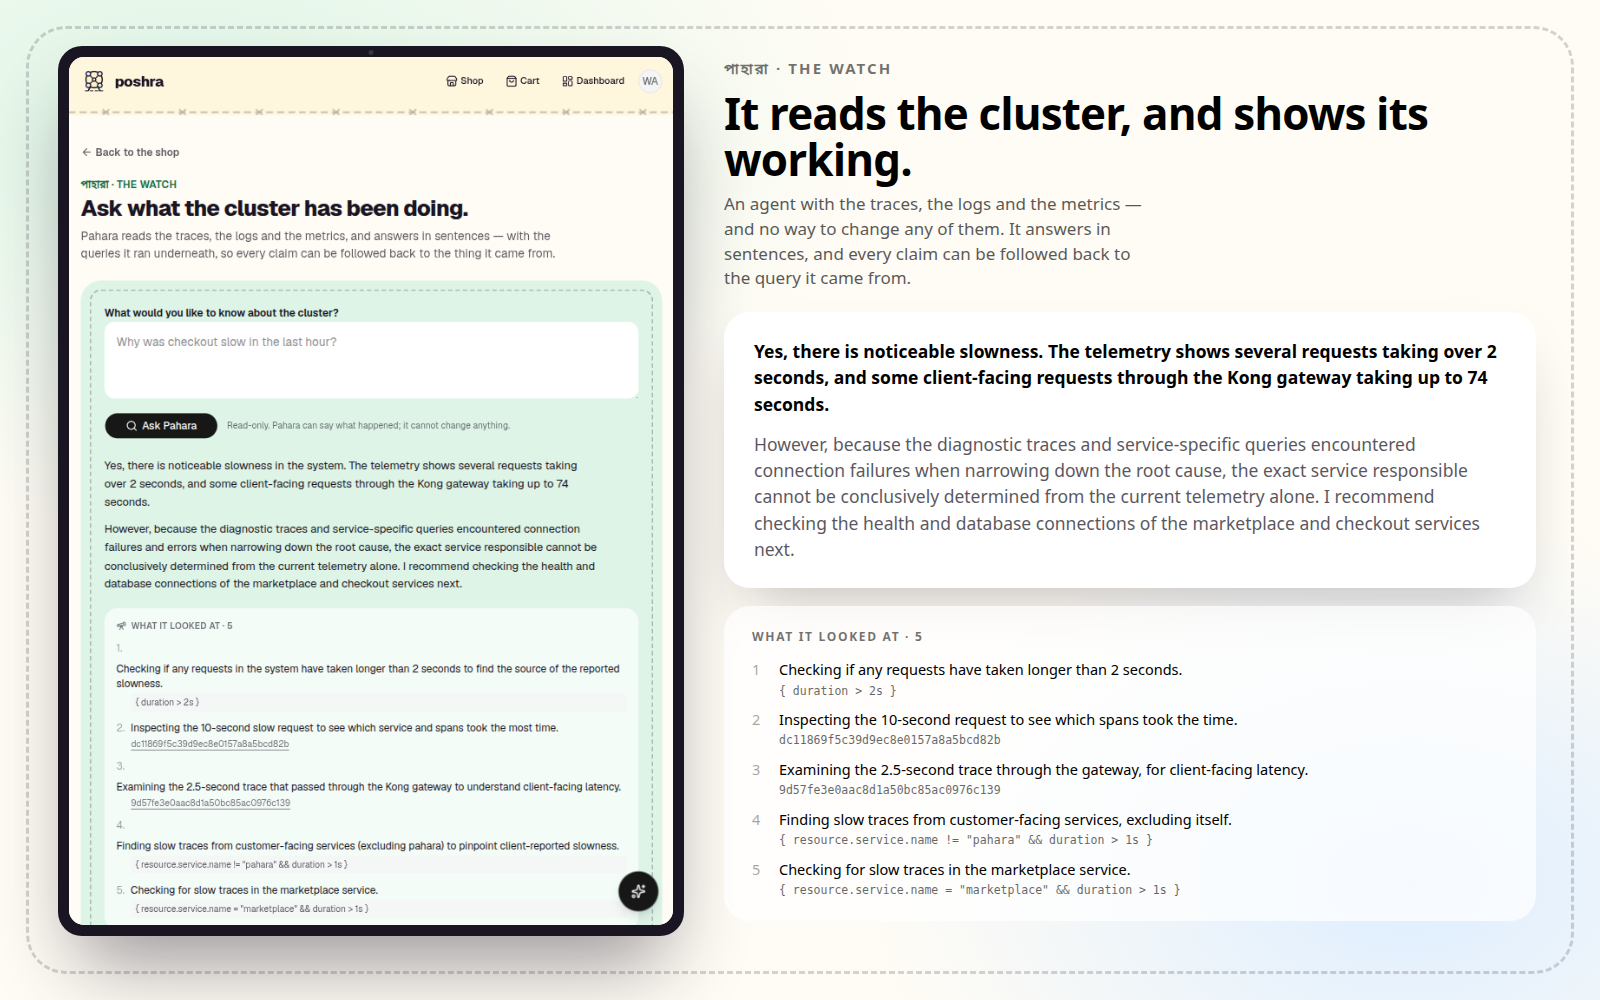
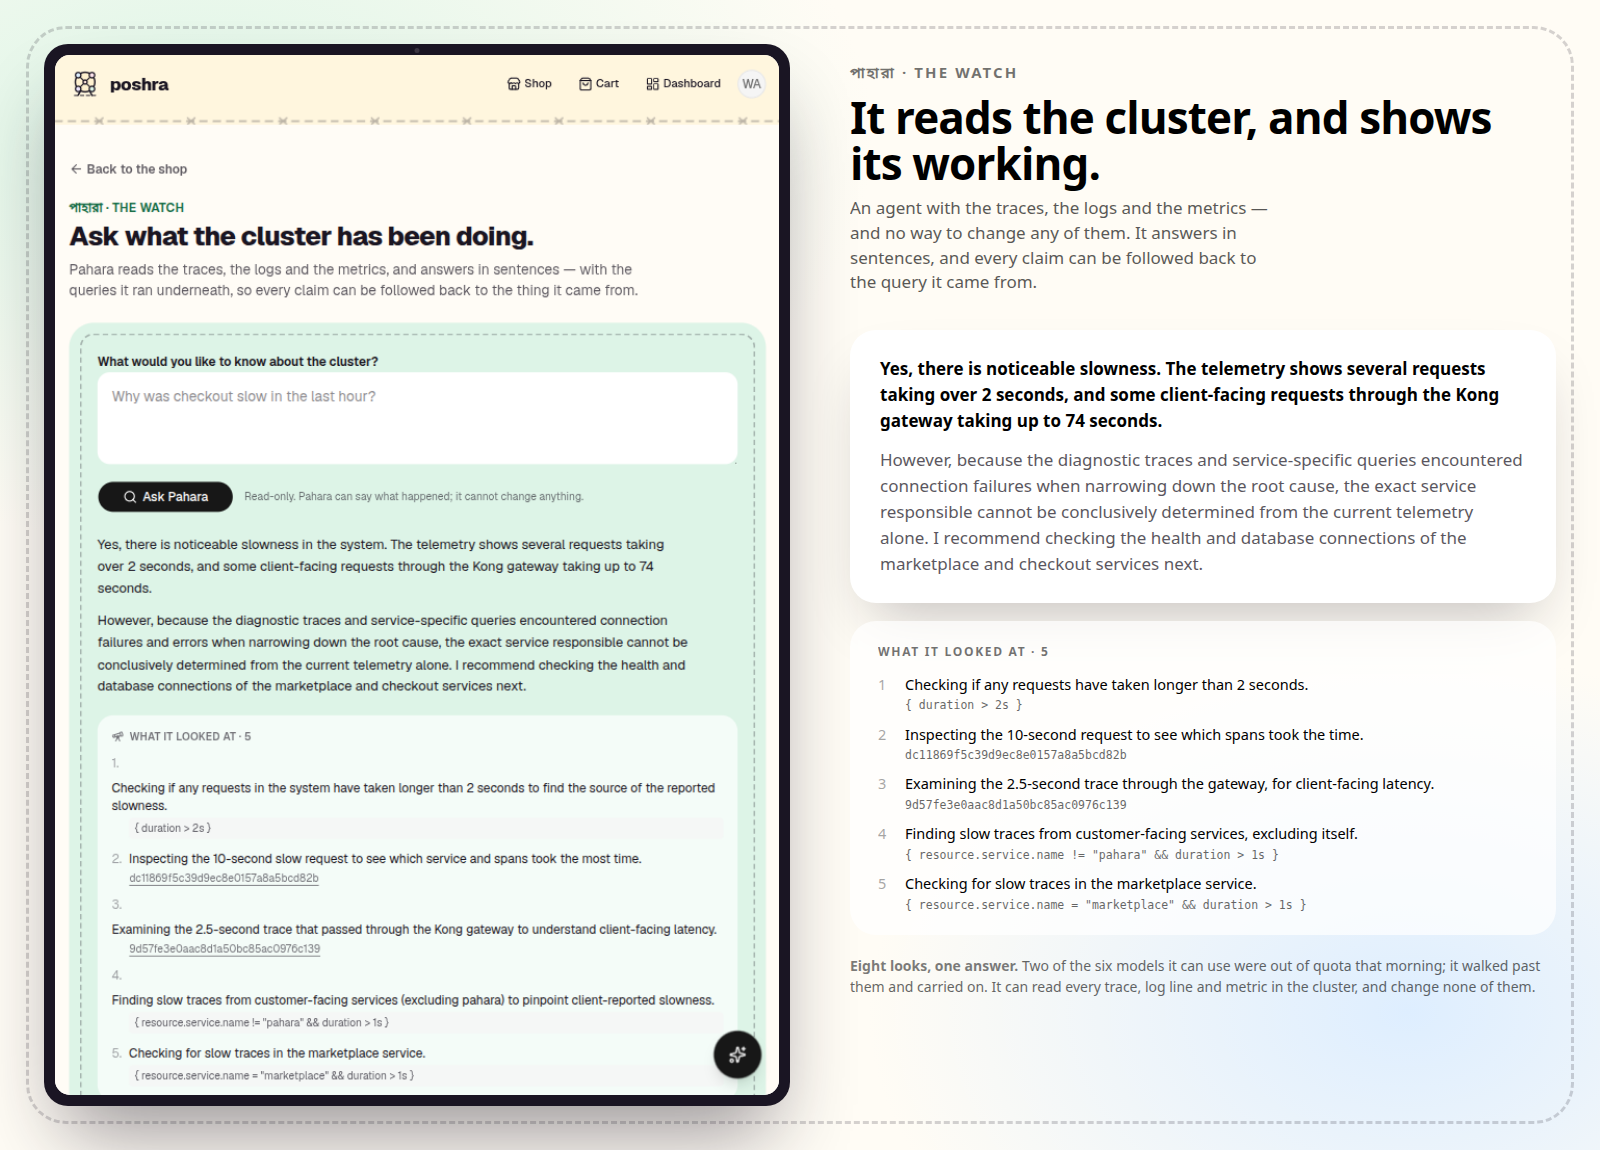
docs: a taller poster, so the tablet can be read
A portrait device's width is governed by the height available to it. At 1000px
the tablet could never be more than a third of the picture, which is not
enough to read the page it is showing — and the page is the evidence that the
words beside it are real.

The poster is 1150 tall, so the device is 746 wide and the capture renders at
its own size rather than shrunk by half. The question, both paragraphs of the
answer and the five steps are legible inside the screenshot.

The footnote uses the space that freed up, and is true of the run it shows:
eight looks, and two of its six models out of quota that morning.

diff --git a/docs/assets/cover-pahara.html b/docs/assets/cover-pahara.html
@@ -1,22 +1,27 @@
 <!doctype html><html><head><meta charset="utf-8"><link rel="stylesheet" href="cover-base.css">
 <style>
+  /* Taller than the other covers on purpose. The tablet is portrait, so its
+     width is governed by the height available — at 1000px the device could
+     never be more than a third of the picture, which is not enough to read
+     the page it is showing. */
+  body { height:1150px; }
   body { background:
     radial-gradient(1100px 650px at 12% 12%, var(--mint) 0%, transparent 62%),
     radial-gradient(900px 600px at 88% 88%, var(--sky) 0%, transparent 60%), var(--cream); }
 
   /* The tablet carries the real page, so it is the largest thing here: a
      device small enough to be decoration is a device not worth drawing. */
-  .label { left:724px; top:58px; max-width:790px; }
-  .tablet { left:58px; top:46px; width:626px; }
+  .label { left:850px; top:62px; max-width:700px; }
+  .tablet { left:44px; top:44px; width:746px; }
 
   /* The page's own words, typeset rather than screenshotted: a poster is read
      at a tenth of the size it is drawn, and a screenshot of a paragraph is
      illegible long before the paragraph is. */
-  .quote { position:absolute; left:724px; top:312px; width:812px; }
+  .quote { position:absolute; left:850px; top:330px; width:706px; }
   .quote .said {
     background:#fff; border-radius:26px; padding:26px 30px;
     box-shadow:0 30px 60px -22px rgba(26,21,35,.28);
-    font-size:17.5px; line-height:1.5;
+    font-size:17px; line-height:1.52;
   }
   .quote .said p + p { margin-top:14px; }
   .quote .said .lead { font-weight:600; }
@@ -29,6 +34,8 @@
   .trail .n { opacity:.35; min-width:16px; }
   .trail code { display:block; margin-top:3px; font-size:11.5px; opacity:.6;
                 font-family:ui-monospace,SFMono-Regular,Menlo,monospace; }
+  .footnote { margin-top:20px; font-size:14px; line-height:1.5; opacity:.6; }
+  .footnote strong { font-weight:600; opacity:.85; }
 </style></head><body>
   <div class="label">
     <div class="eyebrow">পাহারা · the watch</div>
@@ -70,5 +77,12 @@
           <code>{ resource.service.name = "marketplace" &amp;&amp; duration &gt; 1s }</code></span></li>
       </ol>
     </div>
+
+    <p class="footnote">
+      <strong>Eight looks, one answer.</strong> Two of the six models it can use
+      were out of quota that morning; it walked past them and carried on. It can
+      read every trace, log line and metric in the cluster, and change none of
+      them.
+    </p>
   </div>
 </body></html>
